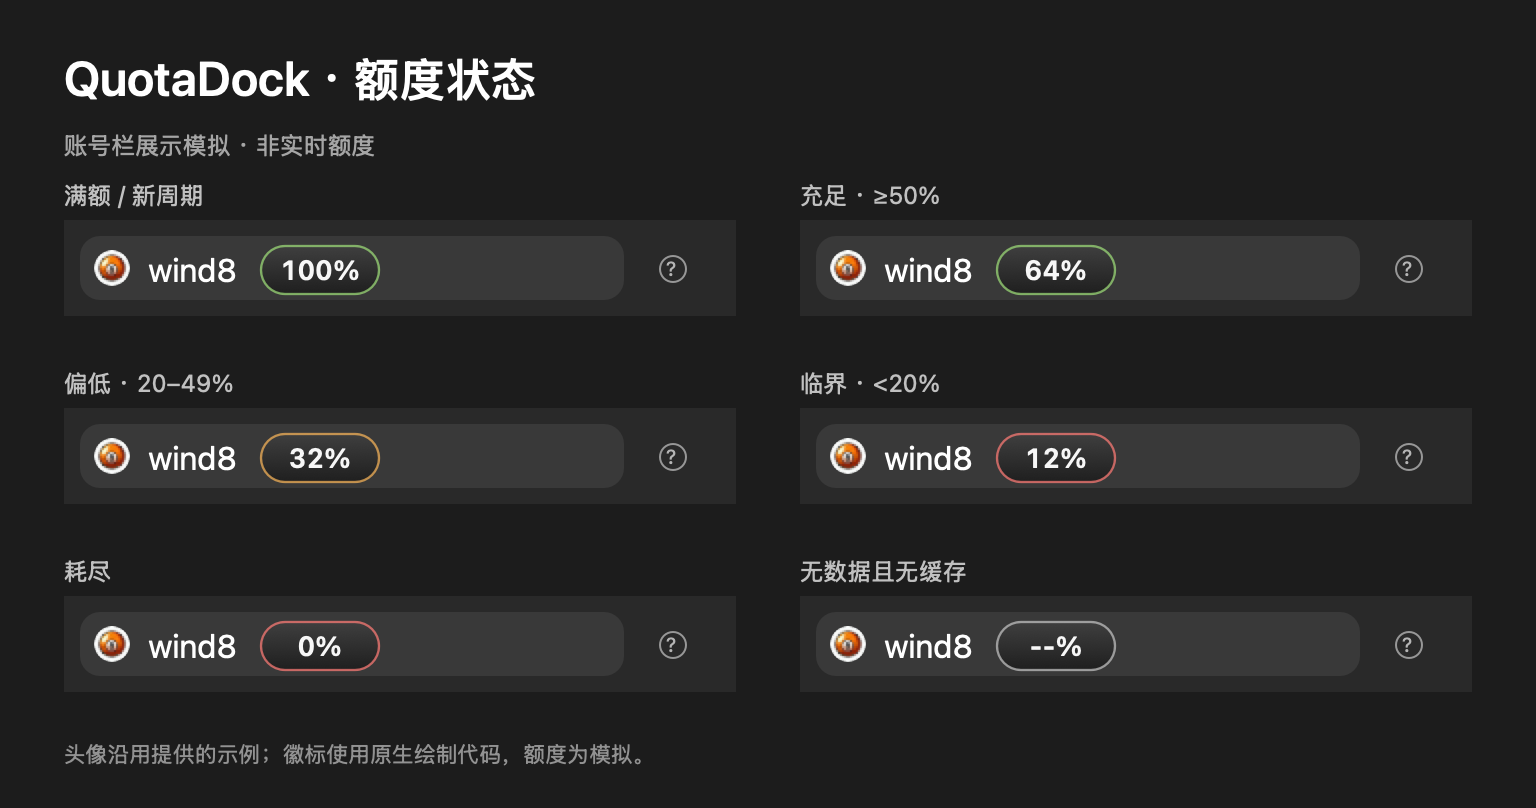
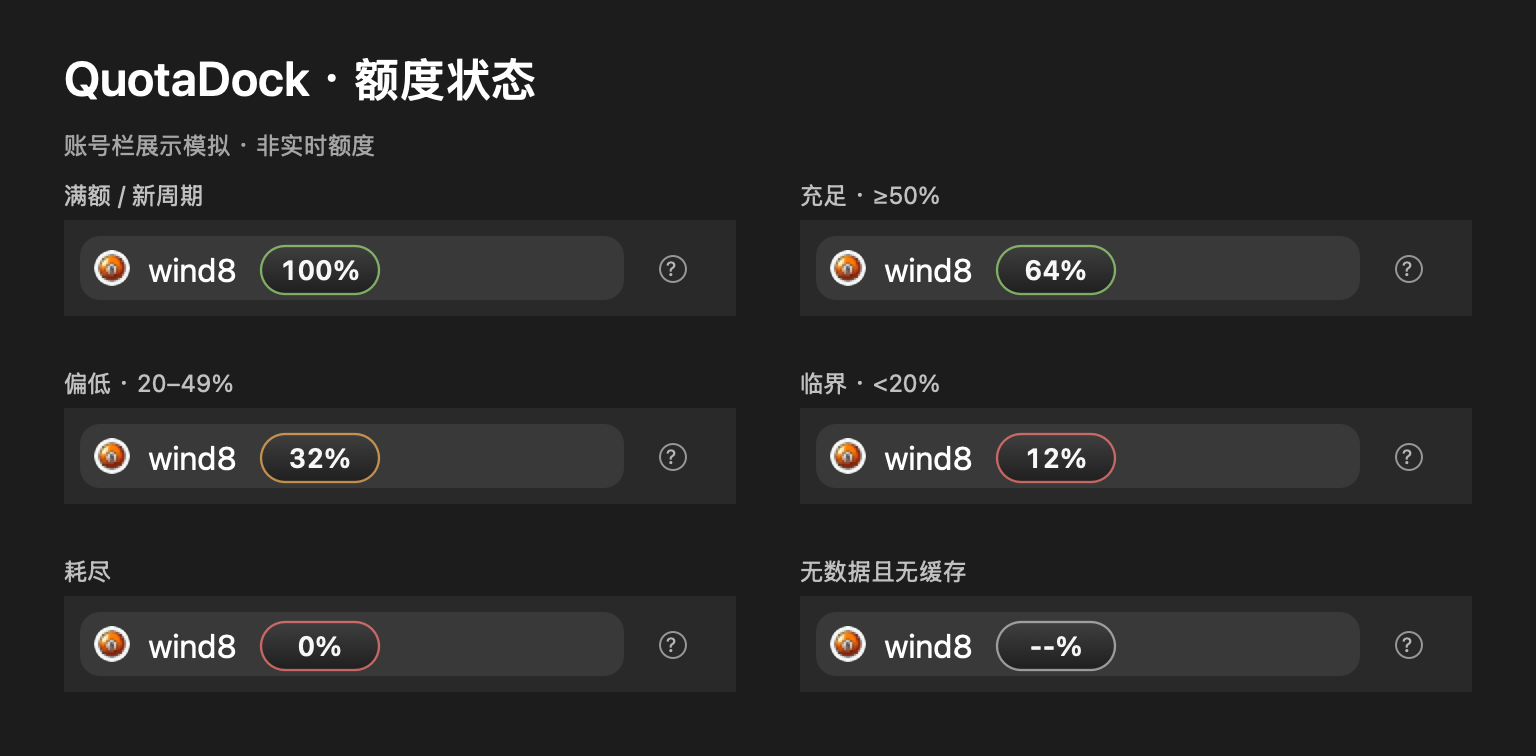
docs: tighten QuotaDock post copy and remove preview footer

diff --git a/scripts/state-preview.swift b/scripts/state-preview.swift
@@ -43,7 +43,7 @@ private func accountBar(percent: Int?, x: CGFloat, y: CGFloat) {
     NSGraphicsContext.restoreGraphicsState()
 }
 
-let canvas = NSSize(width: 768, height: 404)
+let canvas = NSSize(width: 768, height: 378)
 let bitmap = NSBitmapImageRep(bitmapDataPlanes: nil,
     pixelsWide: Int(canvas.width * 2), pixelsHigh: Int(canvas.height * 2),
     bitsPerSample: 8, samplesPerPixel: 4, hasAlpha: true, isPlanar: false,
@@ -54,8 +54,8 @@ NSGraphicsContext.current = context
 context.cgContext.scaleBy(x: 2, y: 2)
 NSColor(calibratedWhite: 0.085, alpha: 1).setFill()
 NSBezierPath(rect: NSRect(origin: .zero, size: canvas)).fill()
-label("QuotaDock · 额度状态", x: 32, y: 351, size: 24, color: .white, weight: .semibold)
-label("账号栏展示模拟 · 非实时额度", x: 32, y: 324, size: 12,
+label("QuotaDock · 额度状态", x: 32, y: 325, size: 24, color: .white, weight: .semibold)
+label("账号栏展示模拟 · 非实时额度", x: 32, y: 298, size: 12,
       color: NSColor(calibratedWhite: 0.58, alpha: 1))
 let states: [(String, Int?)] = [
     ("满额 / 新周期", 100), ("充足 · ≥50%", 64),
@@ -64,13 +64,11 @@ let states: [(String, Int?)] = [
 ]
 for (index, state) in states.enumerated() {
     let x = CGFloat(32 + (index % 2) * 368)
-    let y = CGFloat(246 - (index / 2) * 94)
+    let y = CGFloat(220 - (index / 2) * 94)
     label(state.0, x: x, y: y + 53, size: 12,
           color: NSColor(calibratedWhite: 0.7, alpha: 1))
     accountBar(percent: state.1, x: x, y: y)
 }
-label("头像沿用提供的示例；徽标使用原生绘制代码，额度为模拟。", x: 32, y: 20,
-      size: 11, color: NSColor(calibratedWhite: 0.5, alpha: 1))
 NSGraphicsContext.restoreGraphicsState()
 let destination = URL(fileURLWithPath: CommandLine.arguments[1])
 try bitmap.representation(using: .png, properties: [:])!.write(to: destination)

diff --git a/docs/quota-dock-x-post.md b/docs/quota-dock-x-post.md
@@ -1,7 +1,9 @@
-用 Codex 做了个 macOS 小工具 QuotaDock，把剩余额度贴在账号名旁：充足变绿、偏低变橙、临界变红，一眼就能看到。独立悬浮，跟随窗口，不改原应用。想复刻，把这段提示词交给 Codex：
+用 Codex 做了个 macOS 小工具 QuotaDock，把剩余额度放在账号名右边。额度充足时是绿色，剩不到一半变橙，低于 20% 变红。拖动窗口时，徽标会跟着走，也不会挡住鼠标点击。
 
-> 用 Swift/AppKit 做一个 ChatGPT/Codex 账号栏额度徽标：64×30 pt，距窗口左侧 96、底部 8，跟随窗口且鼠标穿透；每 30 秒读取本地 Codex 主额度，过滤 Spark；≥50% 绿、20–49% 橙、<20% 红，无数据且无缓存时显示灰色 --%；缓存跨重启保留，按 resets_at 区分周期，容忍 120 秒抖动，同周期只降、新周期可回升；附测试、构建、签名与打包脚本。
+想自己做一个，可以把这段话发给 Codex：
 
-六种状态的效果如下（模拟额度，头像沿用账号示例）：
+> 用 Swift/AppKit 做一个 ChatGPT/Codex 账号栏额度徽标。大小 64×30 pt，距窗口左侧 96 pt、底部 8 pt，跟随窗口，鼠标可穿透。每 30 秒读取本地 Codex 主额度，过滤 Spark。剩余至少 50% 显示绿色，20% 到 49% 显示橙色，低于 20% 显示红色。无数据且无缓存时显示灰色 --%。缓存跨重启保留，按 resets_at 区分周期，容忍 120 秒抖动。同周期内额度只降，新周期允许回升。附上测试和构建、签名、打包脚本。
+
+下面是六种额度状态的展示。
 
 ![QuotaDock 六种额度状态模拟：满额、充足、偏低、临界、耗尽及无数据](images/quota-states.png)
